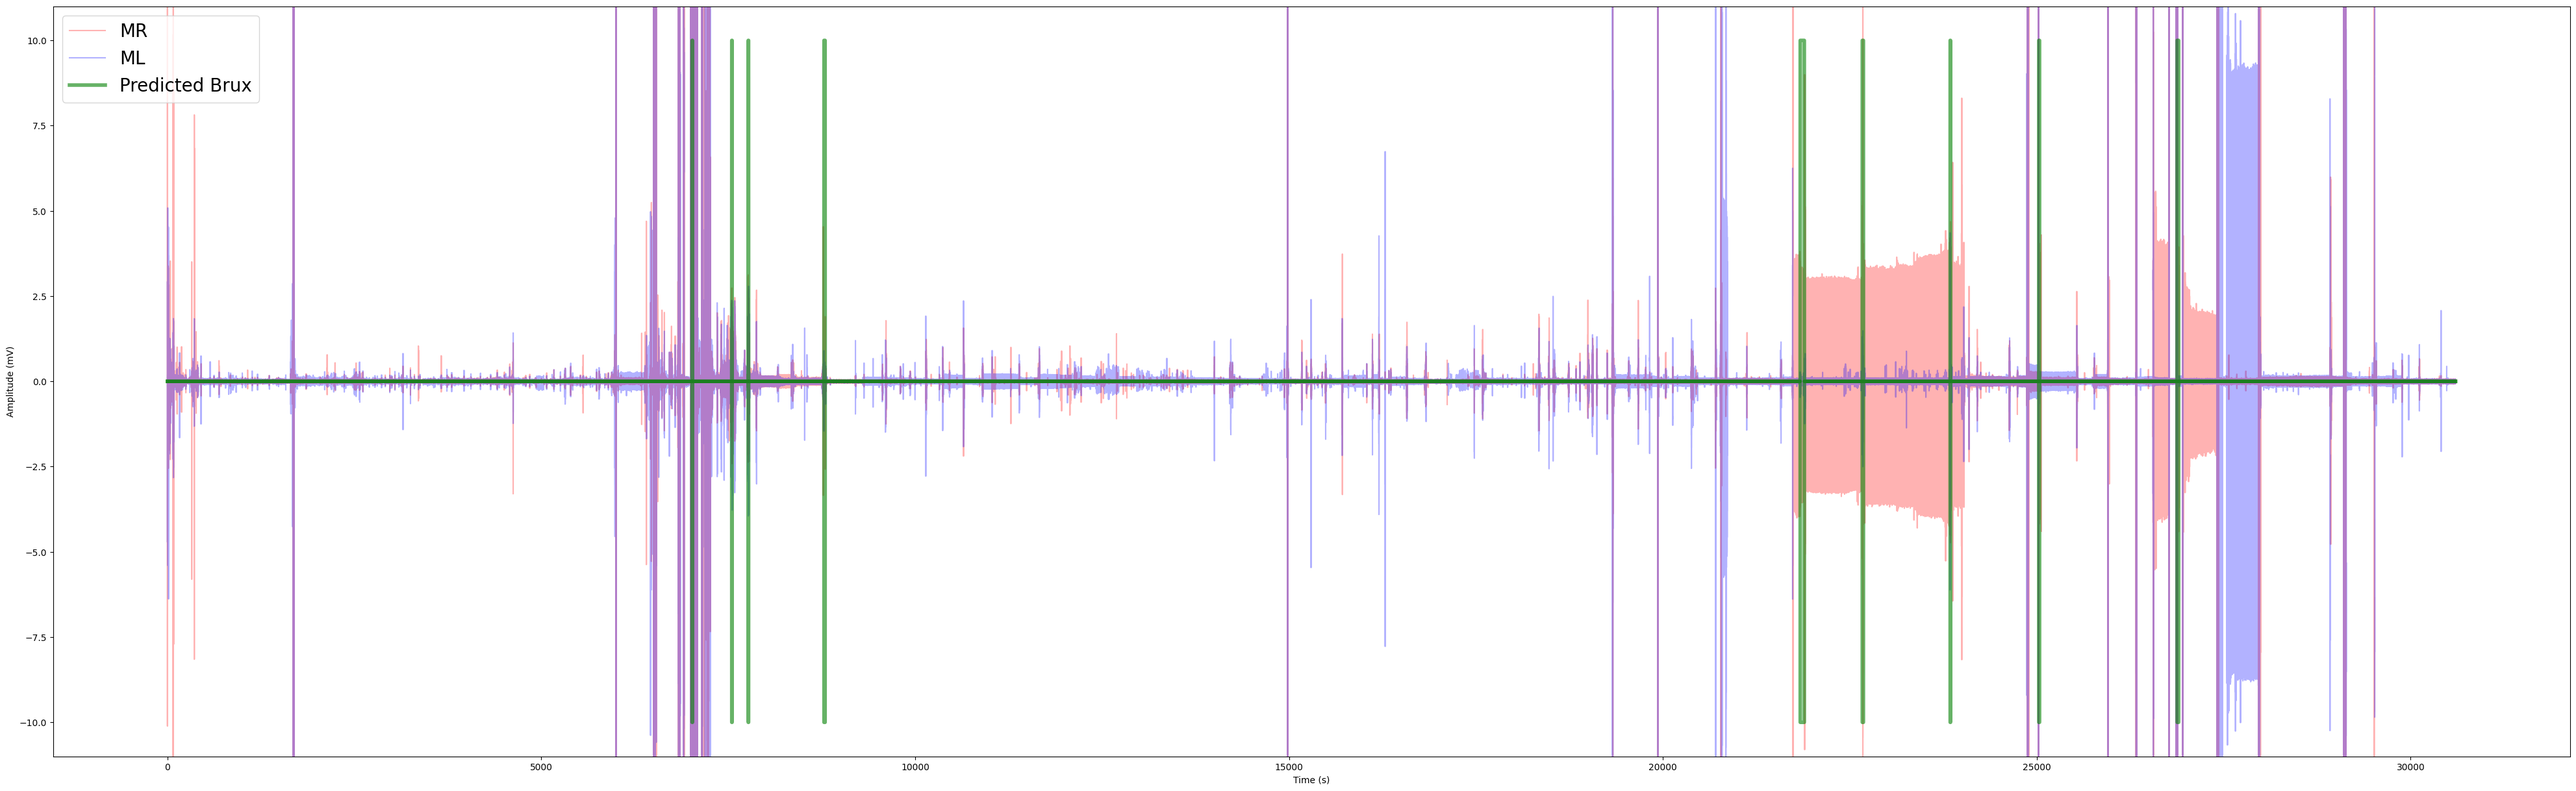
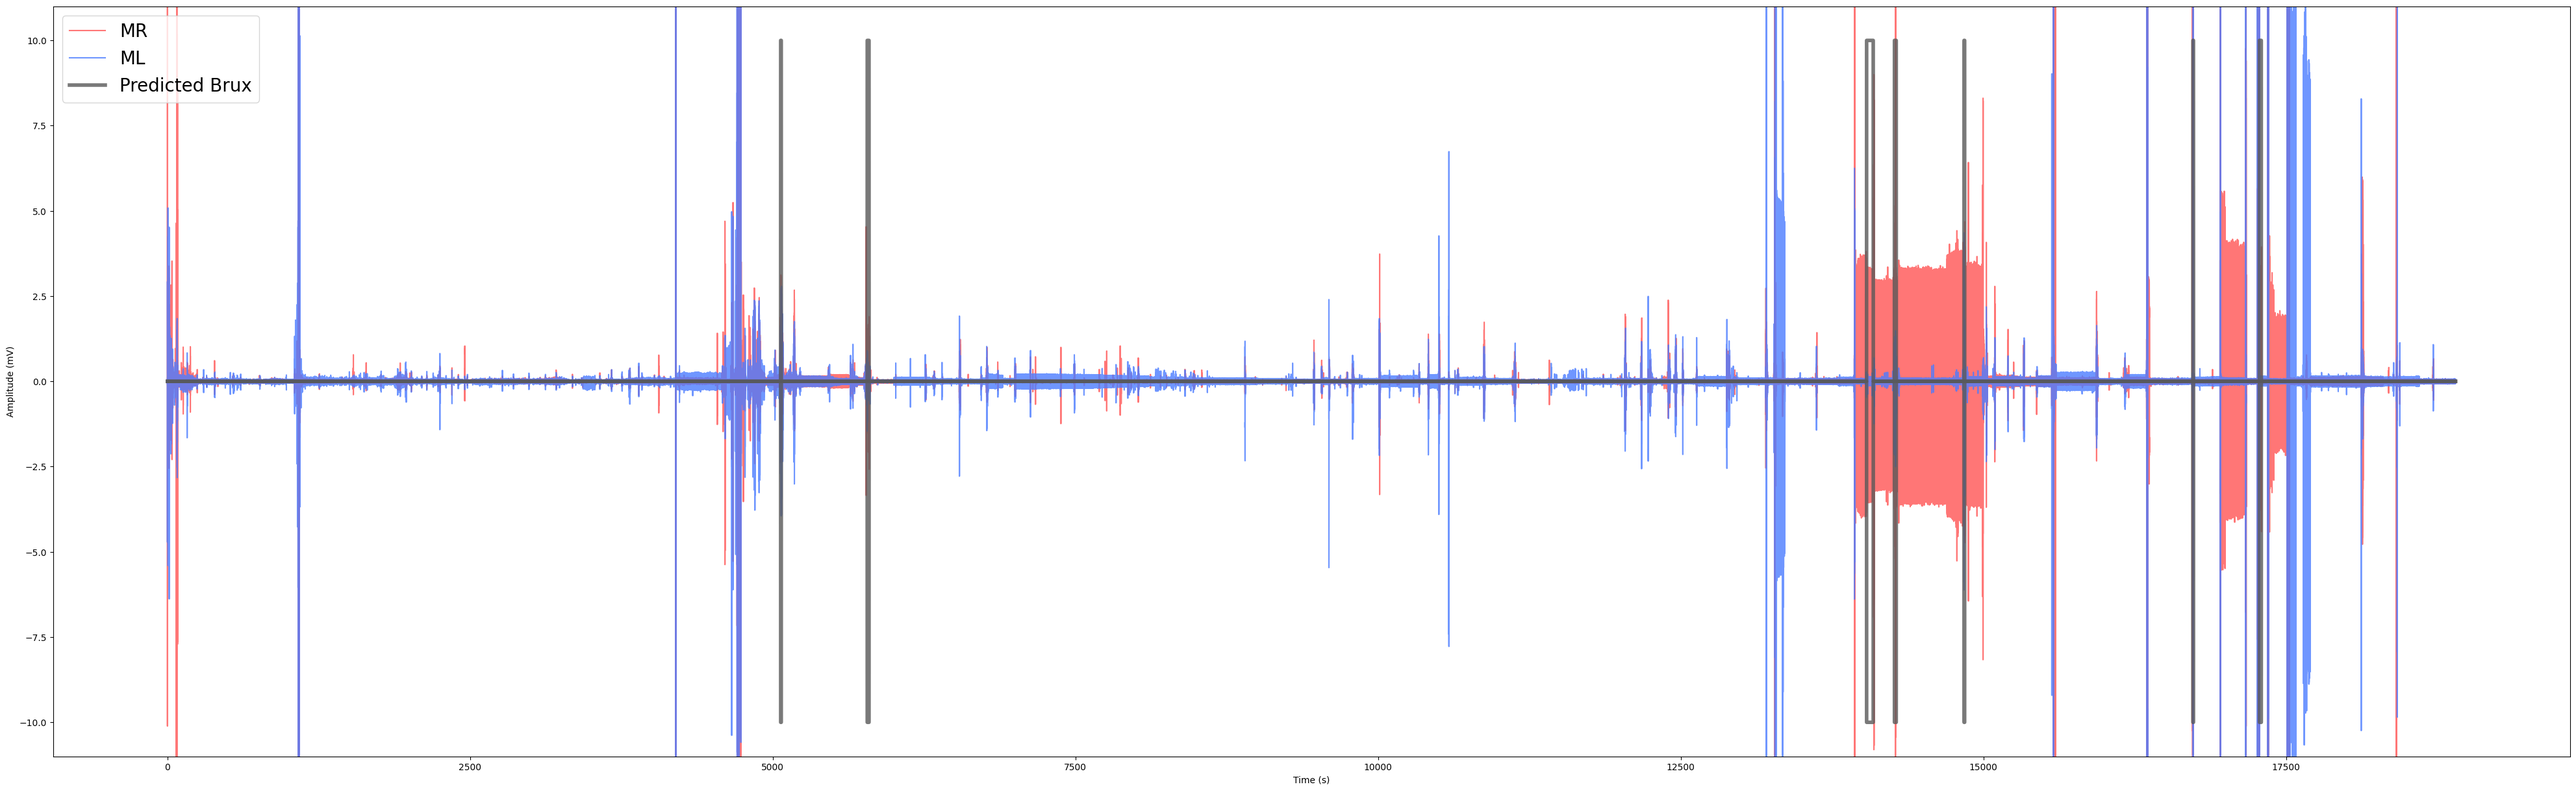
fix color and api todos

Changed region(s): [[0.062, 0.0, 0.9614, 0.9672]]

diff --git a/front-end/src/components/BruxismLabel.vue b/front-end/src/components/BruxismLabel.vue
@@ -102,10 +102,18 @@
 
                             <el-card v-for="(item,index) in cycle.labels" :key="index" shadow="hover" style="border-radius:25px;margin:0px 10px 8px 10px">
                                 <el-row>
-                                    <el-col :span="3"><el-button text="plain" round
-                                        bg @click="locateLabel(item)" style="margin-left: 0;">
-                                            <el-text class="mx-1" type="primary" tag="ins">Label {{ item.label_id }}</el-text>
-                                    </el-button></el-col>
+                                    <el-col :span="3">
+                                        <el-button v-if="selectedEventNo != item.label_id" text="plain" round
+                                            @click="locateLabel(item)" style="margin-left: 0;">
+                                                <el-text class="mx-1" type="primary" tag="ins">Label {{ item.label_id }}</el-text>
+                                        </el-button>
+
+                                        <el-button v-if="selectedEventNo == item.label_id" text="plain" round
+                                            bg @click="locateLabel(item)" style="margin-left: 0;">
+                                                <el-text class="mx-1" type="primary" tag="ins">Label {{ item.label_id }}</el-text>
+                                        </el-button>
+
+                                    </el-col>
                                     <el-col :span="20" :offset="1">
                                         <el-form :inline="true" :model="Labels" class="demo-form-inline">
                                             <el-form-item label="Start:" style="margin-left: 1em;">
@@ -214,6 +222,9 @@ export default {
         },
         disabled () {
             return this.loadingLabel || this.noMoreLabel
+        },
+        selectedEventNo(){
+            return this.$store.state.eventNo
         }
     },
     methods: {
@@ -434,6 +445,30 @@ export default {
                 })
 
         },
+        async getModelPrecision(){
+            const path = `http://127.0.0.1:5000/model-accuracy/${this.$store.state.patientId}`
+            const headers = {
+                    'Accept': 'application/json',
+                    'Content-Type': 'application/json',
+                    'Access-Control-Allow-Origin': '*',
+                    'Access-Control-Allow-Methods': 'GET',
+                    'Access-Control-Max-Age': "3600",
+                    'Access-Control-Allow-Credentials': "true",
+                    'Access-Control-Allow-Headers': 'Content-Type'
+            };
+
+            await axios.get(path, {headers})
+                .then((res) => {
+                    console.log("Precision received");
+                    console.log(res.data);
+                    // this.loading = ref(false);
+                    this.$store.commit('updateStudyPrecision', res.data['study_accuracy'][1]);
+                    this.$store.commit('updatePatientPrecision', res.data['patient_accuracy'][1]);
+                })
+                .catch(err=>{
+                    console.log(err)
+                })
+            },
         loadAll() {
             return [
                 {
@@ -465,6 +500,7 @@ export default {
         this.$store.commit('getNightImg','');
         this.$store.commit('getWeekImg', '');
         // TODO: load precision
+        this.getModelPrecision();
         // this.$store.commit('updateStudyPrecision', '-');
         // this.$store.commit('updatePatientPrecision', '-');
         if(this.$store.state.labels){

diff --git a/front-end/src/components/LinePlot.vue b/front-end/src/components/LinePlot.vue
@@ -447,8 +447,8 @@ export default {
                             .attr("y", 0)
                             .attr("width", (d=> x(d.End) - x(d.Start)))
                             .attr("height", height)
-                            .attr("fill", "green")
-                            .attr("opacity", 0.4)
+                            .attr("fill", "grey")
+                            .attr("opacity", 0.6)
                             .attr("class", "labels");
         },
         drawLineplot(channel,start, end){

diff --git a/back-end/src/utils.py b/back-end/src/utils.py
@@ -1401,18 +1401,24 @@ def generate_night_pred_img(DATABASE, patient_id, week, night_id, recorder):
 
     fig, ax = plt.subplots(1,1, figsize=(50, 15), sharey=True)
     X = np.linspace(0, x_p.shape[0]/selected_sampling, x_p.shape[0])
-    ax.plot(X, x_p[:,0],color='r',alpha=0.3, label='MR')
+    # ax.plot(X, x_p[:,0],color='r',alpha=0.3, label='MR')
+    ax.plot(X, x_p[:,0],color='#FF5454',alpha=0.8, label='MR')
     print("print MR")
-    ax.plot(X, x_p[:,1],color='b',alpha=0.3, label='ML')
+    # ax.plot(X, x_p[:,1],color='b',alpha=0.3, label='ML')
+    ax.plot(X, x_p[:,1],color='#4B7CFF',alpha=0.8, label='ML')
     print("print ML")
-    ax.plot(X, y_p_mix[:],color='g',alpha=0.6,linewidth=4, label='Predicted Brux')
+    # ax.plot(X, y_p_mix[:],color='g',alpha=0.6,linewidth=4, label='Predicted Brux')
+    ax.plot(X, y_p_mix[:],color='#585858',alpha=0.8,linewidth=4, label='Predicted Brux')
     print("print predicted")
     neg_pred = [-x for x in y_p_mix]
-    ax.plot(X, neg_pred[:],color='g',alpha=0.6,linewidth=4)
+    # ax.plot(X, neg_pred[:],color='g',alpha=0.6,linewidth=4)
+    ax.plot(X, neg_pred[:],color='#585858',alpha=0.8,linewidth=4)
     if(y_p_mix[0] == 10):
-        ax.vlines(x=0, ymin=-10, ymax=10, color='g',alpha=0.6,linewidth=4)
+        # ax.vlines(x=0, ymin=-10, ymax=10, color='g',alpha=0.6,linewidth=4)
+        ax.vlines(x=0, ymin=-10, ymax=10, color='#585858',alpha=0.8,linewidth=4)
     if(y_p_mix[-1] == 10):
-        ax.vlines(x=X[-1], ymin=-10, ymax=10, color='g',alpha=0.6,linewidth=4)
+        # ax.vlines(x=X[-1], ymin=-10, ymax=10, color='g',alpha=0.6,linewidth=4)
+        ax.vlines(x=X[-1], ymin=-10, ymax=10, color='#585858',alpha=0.8,linewidth=4)
     ax.legend(loc='upper left', fontsize=20)
     ax.set_ylim(-11,11)
     ax.set_xlabel('Time (s)')

diff --git a/back-end/src/app.py b/back-end/src/app.py
@@ -669,7 +669,7 @@ def create_app(test_config=None):
             except Exception as es:
                 study_accuracy = {'accuracy': None, 'precision': None}
             if(patient_accuracy['precision'] == None and study_accuracy['precision'] == None):
-                return f"{e}\n{es}", 500
+                return f"{es}", 500
             
             return jsonify(patient_accuracy=patient_accuracy, study_accuracy=study_accuracy), 200
         except Exception as e:
@@ -686,8 +686,18 @@ def create_app(test_config=None):
                 cur = con.cursor()
                 cur.execute(f"SELECT accuracy, precision FROM models WHERE patient_id={patient_id}")
                 patient_accuracy = cur.fetchall()
+                if(len(patient_accuracy)==0):
+                    patient_accuracy = None
+                else:
+                    patient_accuracy = patient_accuracy[0]
+                print('patient_accuracy: ',patient_accuracy)
                 cur.execute(f"SELECT accuracy, precision FROM models WHERE patient_id=-1")
                 study_accuracy = cur.fetchall()
+                if(len(study_accuracy)==0):
+                    study_accuracy = None
+                else:
+                    study_accuracy = study_accuracy[0]
+                print('study_accuracy: ',study_accuracy)
                 cur.close()
             return jsonify(patient_accuracy=patient_accuracy, study_accuracy=study_accuracy), 200
         except Exception as e:

diff --git a/back-end/README.md b/back-end/README.md
@@ -450,7 +450,6 @@ Exception string.
 
 
 ## GET `/label-brux/<int:patient_id>/<string:week>/<string:night_id>/<string:recorder>`
-### TODO Yifan check if everything is correct
 ### Description
 Returns brux events defined by the model for a specific patient_id, week, night_id, and recorder.
 
@@ -727,7 +726,7 @@ Exception string.
 ## GET `/rerun-model/<int:patient_id>/<string:week>/<string:night_id>/<string:recorder>`
 
 ## Description
-## TODO
+Reruns the model based on the confirmed events and gets the new precisions of study model and patient model.
 
 ## Parameters
 | Parameter | Required | Type                                  | default |
@@ -739,9 +738,17 @@ Exception string.
 
 
 ### Responses
-## TODO check error: cannot access local variable 'e' where it is not associated with a value for request http://localhost:5000/rerun-model/1/1/0901260/c
+
 #### 200 OK
-Return type: ??
+Return type: A JSON object.
+
+Example response for request http://localhost:5000/rerun-model/1/1/1022102/c/:
+```json
+{
+    "patient_accuracy":{'accuracy': 97.03, 'precision': 73.63},
+    "study_accuracy":{'accuracy': 97.03, 'precision': 73.56},
+}
+```
 
 #### 500 INTERNAL SERVER ERROR
 
@@ -750,7 +757,7 @@ Exception string.
 
 ### GET `/model-accuracy/<int:patient_id>`
 ## Description
-Get the accuracies of the models for a specific patient.
+Get the accuracies and precisions of the models for a specific patient and for the whole study.
 
 ## Parameters
 | Parameter | Required | Type                                  | default |
@@ -761,7 +768,21 @@ Get the accuracies of the models for a specific patient.
 ### Responses
 
 #### 200 OK
-Return type: ??
+Return type: A JSON object.
+
+Example response for request http://localhost:5000/model-accuracy/1/:
+```json
+{
+    "patient_accuracy": [
+        97.03,
+        73.63
+    ],
+    "study_accuracy": [
+        97.03,
+        73.56
+    ]
+}
+```
 
 #### 500 INTERNAL SERVER ERROR
 
@@ -848,7 +869,6 @@ Exception string.
 
 
 ## GET `/event-trend`
-### TODO
 ### Description 
 Get interpolated trend of the events for the specified patients.
 
